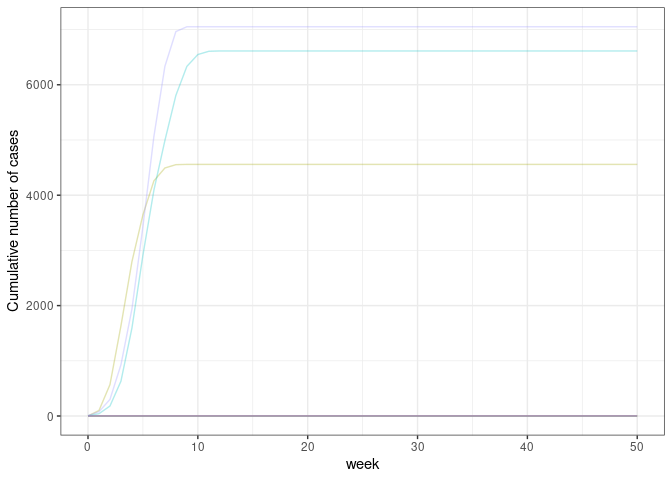
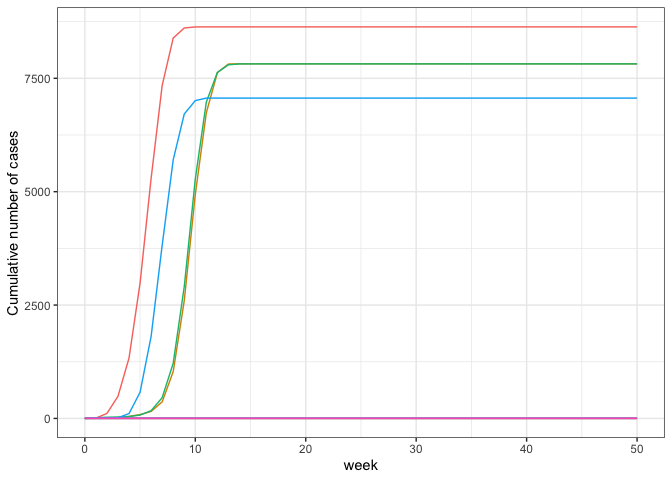
re-render README

diff --git a/README.md b/README.md
@@ -1,42 +1,56 @@
 
-# `{ringbp}`: Simulate infectious disease transmission with contact tracing
+# `{ringbp}`: Simulate infectious disease transmission with contact tracing <img src="man/figures/logo.svg" align="right" width="120" />
 
 <!-- badges: start -->
 
 ![GitHub R package
-version](https://img.shields.io/github/r-package/v/epiforecasts/ringbp)
-[![R-CMD-check](https://github.com/epiforecasts/ringbp/actions/workflows/R-CMD-check.yaml/badge.svg)](https://github.com/epiforecasts/ringbp/actions/workflows/R-CMD-check.yaml)
+version](https://img.shields.io/github/r-package/v/joshwlambert/ringbpepiforecasts/ringbp)
+[![R-CMD-check](https://github.com/joshwlambert/ringbpepiforecasts/ringbp/actions/workflows/R-CMD-check.yaml/badge.svg)](https://github.com/joshwlambert/ringbpepiforecasts/ringbp/actions/workflows/R-CMD-check.yaml)
 [![Codecov test
-coverage](https://codecov.io/gh/epiforecasts/ringbp/branch/main/graph/badge.svg)](https://app.codecov.io/gh/epiforecasts/ringbp?branch=main)
+coverage](https://codecov.io/gh/joshwlambert/ringbpepiforecasts/ringbp/branch/main/graph/badge.svg)](https://app.codecov.io/gh/joshwlambert/ringbpepiforecasts/ringbp?branch=main)
 ![GitHub
-contributors](https://img.shields.io/github/contributors/epiforecasts/ringbp)
+contributors](https://img.shields.io/github/contributors/joshwlambert/ringbpepiforecasts/ringbp)
 [![License:
 MIT](https://img.shields.io/badge/License-MIT-blue.svg)](https://opensource.org/licenses/MIT)
 <!-- badges: end -->
 
 `{ringbp}` is an R package that provides methods to simulate infectious
-disease transmission in the presence of contact tracing. It was
-initially developed to support a paper written in early 2020 to assess
-the feasibility of controlling COVID-19; see the [companion analysis
-code](https://github.com/cmmid/ringbp) and
-[paper](https://doi.org/10.1016/S2214-109X(20)30074-7) for more details.
+disease transmission in the presence of contact tracing. It was based on
+an Ebola transmission model with ring vaccination ([Kucharski et al.
+2016](#ref-Kucharski2016)). The `{ringbp}` model was initially developed
+to support a paper written in early 2020 to assess the feasibility of
+controlling COVID-19 ([Hellewell et al. 2020](#ref-Hellewell2020)).
 
-`{ringbp}` is an R package that provides methods to simulate infectious
-disease transmission in the presence of contact tracing. It was
-initially developed to support a paper written in early 2020 to assess
-the [feasibility of controlling
-COVID-19](https://github.com/cmmid/ringbp). For more details on the
-methods implemented here, see the associated
-[paper](https://doi.org/10.1016/S2214-109X(20)30074-7).
+See the [companion analysis code](https://github.com/cmmid/ringbp) to
+reproduce Hellewell et al. ([2020](#ref-Hellewell2020)).
+
+For more details on the methods implemented in the `{ringbp}` R package,
+see the Hellewell et al. ([2020](#ref-Hellewell2020))
+[paper](https://doi.org/10.1016/S2214-109X(20)30074-7), and the [package
+documentation](https://epiforecasts.io/ringbp/articles/).
 
 ## Installation
 
-The current development version of `{ringbp}` can be installed from
-[GitHub](https://github.com/) using the `pak` package.
+The package can be installed from CRAN using
 
 ``` r
+install.packages("ringbp")
+```
+
+You can install the development version of `{ringbp}` from
+[GitHub](https://github.com/) with:
+
+``` r
+# check whether {pak} is installed
 if(!require("pak")) install.packages("pak")
 pak::pak("epiforecasts/ringbp")
+```
+
+Alternatively, install pre-compiled binaries from [the epiforecasts
+R-universe](https://epiforecasts.r-universe.dev/ringbp)
+
+``` r
+install.packages("ringbp", repos = c("https://epiforecasts.r-universe.dev", "https://cloud.r-project.org"))
 ```
 
 ## Quick start
@@ -89,7 +103,7 @@ res <- scenario_sim(
 ggplot(
   data = res, aes(x = week, y = cumulative, col = as.factor(sim))
 ) +
-  geom_line(show.legend = FALSE, alpha = 0.3) +
+  geom_line(show.legend = FALSE) +
   scale_y_continuous(name = "Cumulative number of cases") +
   theme_bw()
 ```
@@ -101,7 +115,7 @@ ggplot(
 ``` r
 extinct_prob(res)
 #> Calculating extinction using the extinction status from the simulation.
-#> [1] 0.9
+#> [1] 0.6
 ```
 
 ## Contribute
@@ -158,3 +172,30 @@ Please note that the `{ringbp}` project is released with a [Contributor
 Code of
 Conduct](https://github.com/epiforecasts/.github/blob/main/CODE_OF_CONDUCT.md).
 By contributing to this project, you agree to abide by its terms.
+
+## References
+
+<div id="refs" class="references csl-bib-body hanging-indent"
+entry-spacing="0">
+
+<div id="ref-Hellewell2020" class="csl-entry">
+
+Hellewell, Joel, Sam Abbott, Amy Gimma, Nikos I Bosse, Christopher I
+Jarvis, Timothy W Russell, James D Munday, et al. 2020. “Feasibility of
+Controlling COVID-19 Outbreaks by Isolation of Cases and Contacts.” *The
+Lancet Global Health* 8 (4): e488–96.
+<https://doi.org/10.1016/s2214-109x(20)30074-7>.
+
+</div>
+
+<div id="ref-Kucharski2016" class="csl-entry">
+
+Kucharski, Adam J., Rosalind M. Eggo, Conall H. Watson, Anton Camacho,
+Sebastian Funk, and W. John Edmunds. 2016. “Effectiveness of Ring
+Vaccination as Control Strategy for Ebola Virus Disease.” *Emerging
+Infectious Diseases* 22 (1): 105–8.
+<https://doi.org/10.3201/eid2201.151410>.
+
+</div>
+
+</div>